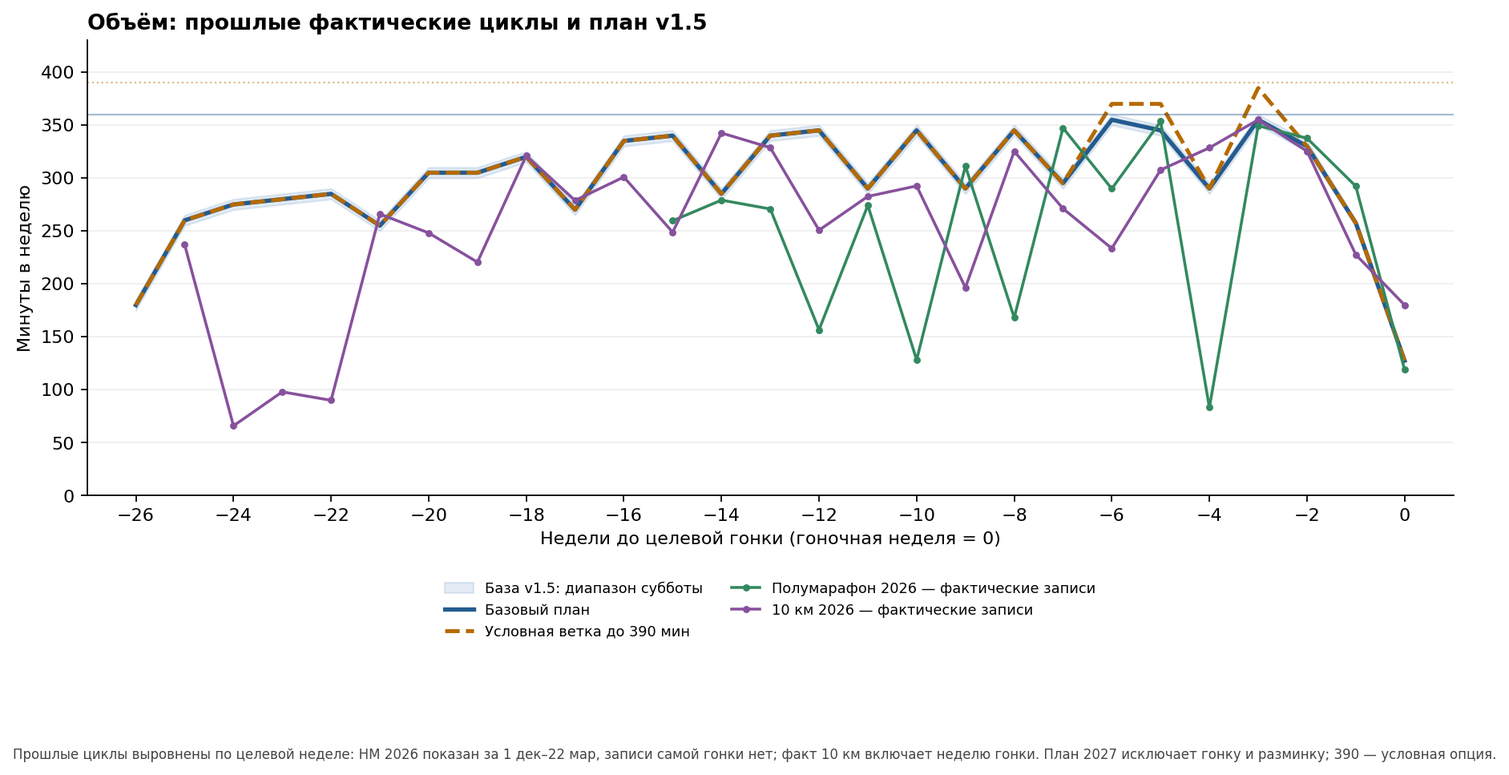
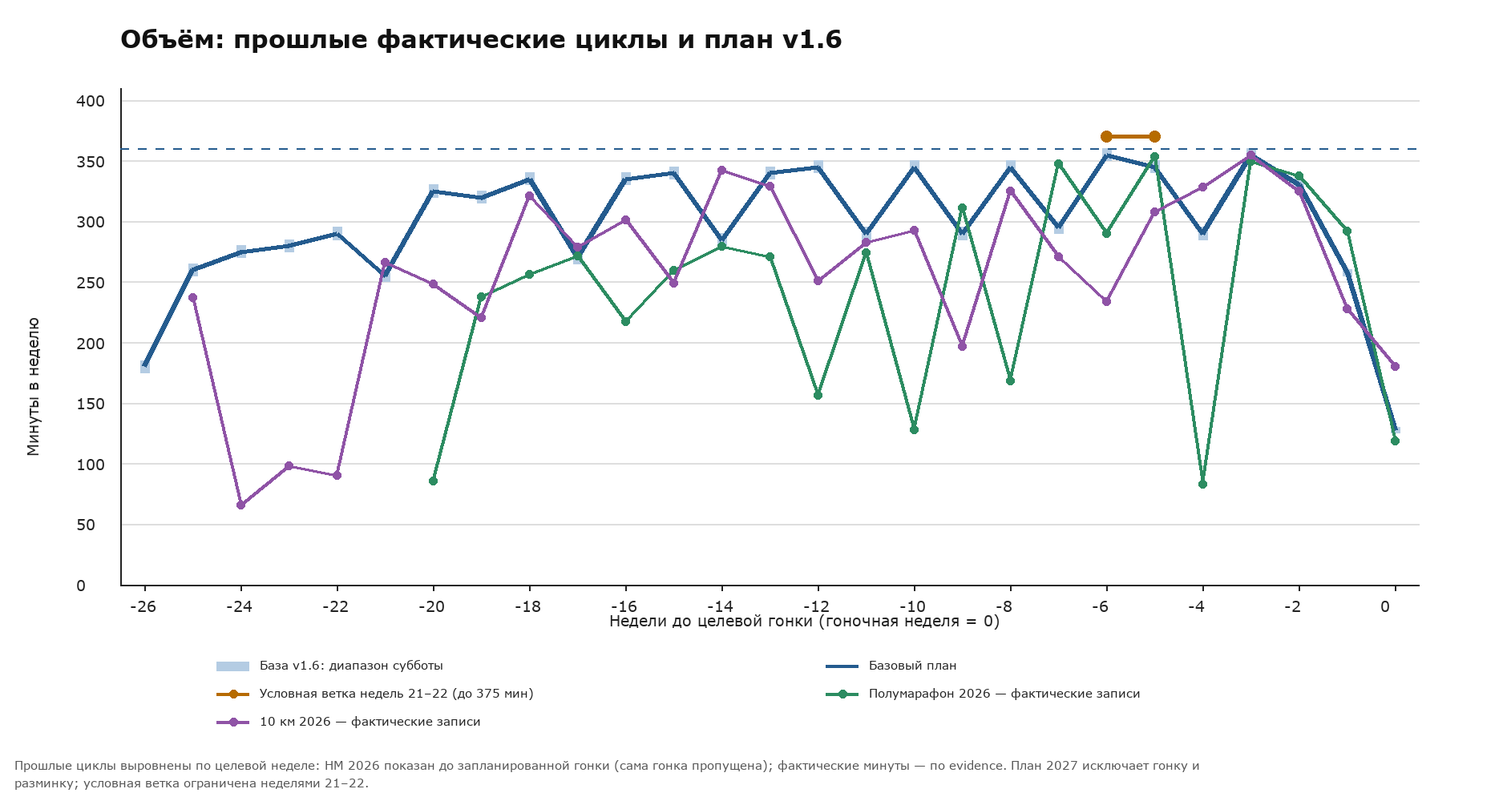
Tune early threshold and long run progression

diff --git a/half_marathon_2027/weekly_plan.md b/half_marathon_2027/weekly_plan.md
@@ -1,16 +1,18 @@
 # Календарь подготовки · 28 сентября 2026 — 4 апреля 2027
 
-Версия 1.5, обновлена 5 октября 2026. Неделя 1 сохранена как необязательное восстановление; далее действует один базовый сценарий, а дальнейший рост объёма пересматривается зимой по фактической нагрузке и восстановлению. После болезни или невосстановления календарная дата не даёт разрешения перейти к следующей нагрузке.
+Версия 1.6, обновлена 5 октября 2026. Неделя 1 сохранена как необязательное восстановление; далее действует один базовый сценарий, а дальнейший рост объёма пересматривается зимой по фактической нагрузке и восстановлению. После болезни или невосстановления календарная дата не даёт разрешения перейти к следующей нагрузке.
 
 **Все минуты — полная пробежка от дома до дома**, включая 15 минут разминки, 15 минут заминки, лёгкие промежутки и ускорения. 70 минут с 3×8 означает 70 минут всего. Заданные рабочие части не прибавляются сверху. На коротких 25-минутных занятиях разворот раньше парка или часть пути пешком.
 
 Обычный режим: **ПН — E или R по календарю; ВТ отдых; СР — главная рабочая часть; ЧТ — отдых, кроме лёгкого E перед воскресными H/контролем; ПТ — только указанная умеренная работа или E + A; СБ — лёгкий parkrun, кроме контрольных дат; ВС — лёгкая длительная или H.** Максимум две содержательные работы за неделю, это верхняя граница, а не квота. E: RPE 2–3, полные предложения; первые и последние 15 минут Z1, без минимального пульса. Временно используй 148–150 уд/мин как личный сигнал замедлиться, не как физиологический потолок или целевой темп; если тест разговора не проходит — сбавь. S: RPE 3–4, ниже T, Z2/низ Z3 по ощущению; T: RPE 6–7 под контролем; H: RPE 5–6, по ровности блоков и восстановлению. Пульсовые зоны Garmin — справочные диапазоны, их границы не являются целями занятия.
 
-**Проверка дистанции:** перед каждой пробежкой сверяй её ожидаемую дистанцию с самой длинной пробежкой за предыдущие скользящие 30 дней. Если план окажется примерно на 10% длиннее или больше — удержи предыдущую дистанцию или сократи бег, даже если время по календарю выглядит небольшим.
+**Проверка дистанции:** перед каждой пробежкой сверяй её ожидаемую дистанцию с самой длинной пробежкой за предыдущие скользящие 30 дней. Рост примерно на 10% и выше — наблюдательный сигнал риска, а не граница, ниже которой увеличение безопасно. Если плановая дистанция примерно на 10% длиннее или больше — удержи предыдущую дистанцию или сократи бег; меньшая прибавка тоже требует нормального восстановления и здравой оценки.
+
+**Версия 1.6:** T постепенно увеличивается до 3×6 минут к неделе 5; длительные недель 7–9 составляют 90/95/100 минут, при этом T остаётся на 3×6. В неделях 4–5 T и длительная растут в одной неделе — выбранный компромисс ради развития порога без дальнейшего наращивания T в неделях 7–9. Каждое увеличение длительной требует проверки реальной дистанции относительно самого длинного бега предыдущих 30 дней и восстановления: минуты сами по себе не означают безопасного роста дистанции.
 
 Обычная суббота: 15 минут легко + 5 км parkrun в разговорном усилии + дорога домой легко, обычно 60–70 минут. Контрольная: подготовительные ускорения и 5 км на результат только в контрольные даты и при нормальном состоянии. A — необязательные 4×12 секунд расслабленно, 60–90 секунд легко; включены в полное время, пропускаются при усталости или гололёде. Эти интервалы времени — оценка, а не требование ускориться или добежать лишнее. Фактическую субботнюю продолжительность включать в недельную сумму.
 
-Для повышения нагрузки все запланированные качественные части должны оставаться контролируемыми; E — по разговору, длительная — в назначенном усилии и в пределах дистанции, допустимой по самому длинному бегу за предыдущие скользящие 30 дней. Обычная тяжесть должна уходить за 48 часов; при болезни или новой/усиливающейся боли шаг не повышать. Иначе повторить предыдущую ступень или уменьшить минуты на 10–15%; пропуски не компенсировать. В базовых неделях 17, 19, 22 и 24 часть лёгких минут смещена с четверга на понедельник по указанной таблице. Условная ветка до 390 минут — только при последовательной проверке после недели 19; дата не включает её автоматически.
+Для повышения нагрузки все запланированные качественные части должны оставаться контролируемыми; E — по разговору, длительная — в назначенном усилии и в пределах дистанции, допустимой по самому длинному бегу за предыдущие скользящие 30 дней. Обычная тяжесть должна уходить за 48 часов; при болезни или новой/усиливающейся боли шаг не повышать. Иначе повторить предыдущую ступень или уменьшить минуты на 10–15%; пропуски не компенсировать. В базовых неделях 17, 19, 22 и 24 часть лёгких минут смещена с четверга на понедельник по указанной таблице. Условная ветка недель 21–22 до 375 минут возможна только после последовательной проверки после недели 19; дата не включает её автоматически.
 
 ## Обзор недель
 
@@ -20,11 +22,11 @@
 | 2 | 05.10 — 11.10 | Восстановление | 35 | 45 | 45 | Отдых | 60–70 | 70 | 255–265 |
 | 3 | 12.10 — 18.10 | Аэробная база I | 40 | 50 | Отдых | 45 | 60–70 | 75 | 270–280 |
 | 4 | 19.10 — 25.10 | Аэробная база I | 40 | 50 | Отдых | 45 | 60–70 | 80 | 275–285 |
-| 5 | 26.10 — 01.11 | Аэробная база I | 40 | 50 | Отдых | 45 | 60–70 | 85 | 280–290 |
+| 5 | 26.10 — 01.11 | Аэробная база I | 40 | 55 | Отдых | 45 | 60–70 | 85 | 285–295 |
 | 6 | 02.11 — 08.11 | Аэробная база I | 35 | 45 | Отдых | 40 | 60–70 | 70 | 250–260 |
-| 7 | 09.11 — 15.11 | Аэробная база II | 50 | 55 | Отдых | 45 | 60–70 | 90 | 300–310 |
-| 8 | 16.11 — 22.11 | Аэробная база II | 50 | 55 | Отдых | 45 | 60–70 | 90 | 300–310 |
-| 9 | 23.11 — 29.11 | Аэробная база II | 60 | 55 | Отдых | 45 | 60–70 | 95 | 315–325 |
+| 7 | 09.11 — 15.11 | Аэробная база II | 60 | 65 | Отдых | 45 | 60–70 | 90 | 320–330 |
+| 8 | 16.11 — 22.11 | Аэробная база II | 55 | 60 | Отдых | 45 | 60–70 | 95 | 315–325 |
+| 9 | 23.11 — 29.11 | Аэробная база II | 65 | 60 | Отдых | 45 | 60–70 | 100 | 330–340 |
 | 10 | 30.11 — 06.12 | Аэробная база II | 35 | 50 | 50 | Отдых | 55–65 К | 75 | 265–275 |
 | 11 | 07.12 — 13.12 | Развитие выносливости | 60 | 60 | Отдых | 50 | 60–70 | 100 | 330–340 |
 | 12 | 14.12 — 20.12 | Развитие выносливости | 60 | 60 | Отдых | 50 | 60–70 | 105 | 335–345 |
@@ -39,21 +41,20 @@
 | 21 | 15.02 — 21.02 | Специфика II | 60 | 60 | Отдых | 50 | 60–70 | 120 | 350–360 база; опция 365–375 |
 | 22 | 22.02 — 28.02 | Специфика II | 45 | 60 | 55 | Отдых | 60–70 | 120 | 340–350 база; опция 365–375 |
 | 23 | 01.03 — 07.03 | Специфика II | 40 | 55 | 60 | Отдых | 55–65 К | 75 | 285–295 |
-| 24 | 08.03 — 14.03 | Специфика II | 60 | 55 | 50 | Отдых | 60–70 | 125 | 350–360 база; опция 380–390 |
+| 24 | 08.03 — 14.03 | Специфика II | 60 | 55 | 50 | Отдых | 60–70 | 125 | 350–360 |
 | 25 | 15.03 — 21.03 | Специфика II | 45 | 65 | Отдых | 50 | 60–70 | 105 | 325–335 |
 | 26 | 22.03 — 28.03 | Тейпер | 35 | 50 | 40 | Отдых | 60–65 | 70 | 255–260 |
 | 27 | 29.03 — 04.04 | Тейпер | 25 | 40 | 25 | Отдых | 35–40 | Старт | 125–130 до гонки |
 
-К — контрольный parkrun. Недельные суммы — диапазоны с учётом фактической субботней длительности; в гоночной неделе гонка и её разминка не включены. Неделя 1 необязательна. Длительные ограничены меньшим из заданных минут и 21 км, а также дистанцией, допустимой по самому длинному бегу за скользящие предыдущие 30 дней. Базовый сценарий достигает 360 минут. Необязательная поздняя ветка до 390 минут возможна только после проверки критериев; см. условия ниже. Эти цифры — проектные ограничения плана, не физиологические потолки.
+К — контрольный parkrun. Недельные суммы — диапазоны с учётом фактической субботней длительности; в гоночной неделе гонка и её разминка не включены. Неделя 1 необязательна. Длительные ограничены меньшим из заданных минут и 21 км, а также дистанцией, допустимой по самому длинному бегу за скользящие предыдущие 30 дней. Базовый сценарий достигает 360 минут. Необязательная ветка недель 21–22 до 375 минут возможна только после проверки критериев; см. условия ниже. Эти цифры — проектные ограничения плана, не физиологические потолки.
 
 ### Условная поздняя ветка
-После недели 19 можно рассмотреть только лёгкие минуты, без добавления повторов T/H или роста интенсивности. Условия входа: не менее четырёх фактически выполненных рабочих недель по 330–360 минут за предыдущие 6–8 календарных недель (контрольные и разгрузочные недели не обязаны достигать этого объёма); все назначенные рабочие части контролируемы, E проходит тест полных предложений, обычное восстановление наступает в течение 48 часов; нет болезни и новой/усиливающейся боли. Неделя 21 получает верхний вариант только после этой проверки; неделя 22 — только если неделя 21 стабильна; неделя 24 — только если стабильна неделя 22 и нормально пройдены контроль и восстановление недели 23. Если условия не соблюдены, остаётся базовый вариант. Ни календарная дата, ни пропущенные занятия сами по себе эту ветку не активируют.
+После недели 19 можно рассмотреть только лёгкие минуты в неделях 21–22, без добавления повторов T/H или роста интенсивности. Условия входа: не менее четырёх фактически выполненных рабочих недель по 330–360 минут за предыдущие 6–8 календарных недель (контрольные и разгрузочные недели не обязаны достигать этого объёма); все назначенные рабочие части контролируемы, E проходит тест полных предложений, обычное восстановление наступает в течение 48 часов; нет болезни и новой/усиливающейся боли. Неделя 21 получает верхний вариант только после этой проверки; неделя 22 — только если неделя 21 стабильна. Максимум ветки — 375 минут. Если условия не соблюдены, остаётся базовый вариант. Ни календарная дата, ни пропущенные занятия сами по себе эту ветку не активируют.
 
 | Неделя | Базовый план | Необязательная ветка при выполнении условий |
 |---:|---|---|
 | 21 | ПН 60, СР 60, ПТ 50, ВС 120; 350–360 мин | СР 65, ПТ 60; 365–375 мин |
 | 22 | ПН 45, СР 60, ЧТ 55, ВС 120; 340–350 мин | ПН 50, СР 65, ЧТ 70; 365–375 мин |
-| 24 | ПН 60, СР 55, ЧТ 50, ВС 125; 350–360 мин | СР 65, ЧТ 70; 380–390 мин |
 
 ### Специфика H
 
@@ -91,7 +92,7 @@
 ### Неделя 4 · 19.10.2026 — 25.10.2026 · Аэробная база I
 
 **Понедельник, 19.10, 40 мин:** лёгкий E, RPE 2–3, полные предложения; первые и последние 15 мин Z1. Пульс не цель и не нужно достигать нижней границы Z2; 148–150 уд/мин — только временный личный сигнал замедлиться. При усталости сократить или сделать R/отдых, без компенсации.
-**Среда, 21.10, 50 мин всего:** T: 2×5 мин / 2 мин легко. RPE 6–7, контролируемо; не гонись за пульсом. Время включает лёгкую разминку, короткую активацию перед T и заминку; все восстановления внутри лимита.
+**Среда, 21.10, 50 мин всего:** T: 2×6 мин / 2 мин легко. RPE 6–7, контролируемо; не гонись за пульсом. Время включает лёгкую разминку, короткую активацию перед T и заминку; все восстановления внутри лимита.
 **Четверг, 22.10:** отдых.
 **Пятница, 23.10, 45 мин всего:** E + необязательные 4×12 с A, между ускорениями 60–90 с легко. A расслабленные, входят в полное время, пропусти при усталости/гололёде; это не вторая качественная работа.
 **Суббота, 24.10, обычно 60–70 мин:** 5 км parkrun легко по разговорному усилию, дорога туда и обратно; без соревновательного финиша.
@@ -100,7 +101,7 @@
 ### Неделя 5 · 26.10.2026 — 01.11.2026 · Аэробная база I
 
 **Понедельник, 26.10, 40 мин:** лёгкий E, RPE 2–3, полные предложения; первые и последние 15 мин Z1. Пульс не цель и не нужно достигать нижней границы Z2; 148–150 уд/мин — только временный личный сигнал замедлиться. При усталости сократить или сделать R/отдых, без компенсации.
-**Среда, 28.10, 50 мин всего:** T: 2×5 мин / 2 мин легко. RPE 6–7, контролируемо; не гонись за пульсом. Время включает лёгкую разминку, короткую активацию перед T и заминку; все восстановления внутри лимита.
+**Среда, 28.10, 55 мин всего:** T: 3×6 мин / 2 мин легко. RPE 6–7, контролируемо; не гонись за пульсом. Время включает лёгкую разминку, короткую активацию перед T и заминку; все восстановления внутри лимита.
 **Четверг, 29.10:** отдых.
 **Пятница, 30.10, 45 мин всего:** E + необязательные 4×12 с A, между ускорениями 60–90 с легко. A расслабленные, входят в полное время, пропусти при усталости/гололёде; это не вторая качественная работа.
 **Суббота, 31.10, обычно 60–70 мин:** 5 км parkrun легко по разговорному усилию, дорога туда и обратно; без соревновательного финиша.
@@ -117,35 +118,35 @@
 Разгрузка: сохраняй короткую среду, пятница E, длительная 70 минут.
 ### Неделя 7 · 09.11.2026 — 15.11.2026 · Аэробная база II
 
-**Понедельник, 09.11, 50 мин:** лёгкий E, RPE 2–3, полные предложения; первые и последние 15 мин Z1. Пульс не цель и не нужно достигать нижней границы Z2; 148–150 уд/мин — только временный личный сигнал замедлиться. При усталости сократить или сделать R/отдых, без компенсации.
-**Среда, 11.11, 55 мин всего:** T: 2×5 мин / 2 мин легко. RPE 6–7, контролируемо; не гонись за пульсом. Время включает лёгкую разминку, короткую активацию перед T и заминку; все восстановления внутри лимита.
+**Понедельник, 09.11, 60 мин:** лёгкий E, RPE 2–3, полные предложения; первые и последние 15 мин Z1. Пульс не цель и не нужно достигать нижней границы Z2; 148–150 уд/мин — только временный личный сигнал замедлиться. При усталости сократить или сделать R/отдых, без компенсации.
+**Среда, 11.11, 65 мин всего:** T: 3×6 мин / 2 мин легко. RPE 6–7, контролируемо; не гонись за пульсом. Время включает лёгкую разминку, короткую активацию перед T и заминку; все восстановления внутри лимита.
 **Четверг, 12.11:** отдых.
 **Пятница, 13.11, 45 мин всего:** E + необязательные 4×12 с A, между ускорениями 60–90 с легко. A расслабленные, входят в полное время, пропусти при усталости/гололёде; это не вторая качественная работа.
 **Суббота, 14.11, обычно 60–70 мин:** 5 км parkrun легко по разговорному усилию, дорога туда и обратно; без соревновательного финиша.
 **Воскресенье, 15.11, 90 мин всего:** лёгкая длительная E по разговору/RPE 2–3, первые и последние 15 мин Z1. Перед длительной сверяй расстояние с правилом проверки выше; оно важнее времени в плане.
-После разгрузки растёт длительная до 90 минут; пятница лёгкая.
+После разгрузки длительная достигает 90 минут; T удерживается на 3×6. Понедельник увеличен на 10 минут, а среда — на 10 минут: с учётом выросшей T это добавляет около 12 лёгких минут за неделю. Увеличение зависит от проверки фактической дистанции и восстановления.
 ### Неделя 8 · 16.11.2026 — 22.11.2026 · Аэробная база II
 
-**Понедельник, 16.11, 50 мин:** лёгкий E, RPE 2–3, полные предложения; первые и последние 15 мин Z1. Пульс не цель и не нужно достигать нижней границы Z2; 148–150 уд/мин — только временный личный сигнал замедлиться. При усталости сократить или сделать R/отдых, без компенсации.
-**Среда, 18.11, 55 мин всего:** T: 3×5 мин / 2 мин легко. RPE 6–7, контролируемо; не гонись за пульсом. Время включает лёгкую разминку, короткую активацию перед T и заминку; все восстановления внутри лимита.
+**Понедельник, 16.11, 55 мин:** лёгкий E, RPE 2–3, полные предложения; первые и последние 15 мин Z1. Пульс не цель и не нужно достигать нижней границы Z2; 148–150 уд/мин — только временный личный сигнал замедлиться. При усталости сократить или сделать R/отдых, без компенсации.
+**Среда, 18.11, 60 мин всего:** T: 3×6 мин / 2 мин легко. RPE 6–7, контролируемо; не гонись за пульсом. Время включает лёгкую разминку, короткую активацию перед T и заминку; все восстановления внутри лимита.
 **Четверг, 19.11:** отдых.
 **Пятница, 20.11, 45 мин всего:** E + необязательные 4×12 с A, между ускорениями 60–90 с легко. A расслабленные, входят в полное время, пропусти при усталости/гололёде; это не вторая качественная работа.
 **Суббота, 21.11, обычно 60–70 мин:** 5 км parkrun легко по разговорному усилию, дорога туда и обратно; без соревновательного финиша.
-**Воскресенье, 22.11, 90 мин всего:** лёгкая длительная E по разговору/RPE 2–3, первые и последние 15 мин Z1. Перед длительной сверяй расстояние с правилом проверки выше; оно важнее времени в плане.
-T увеличивается до 3×5, длительная остаётся 90 минут.
+**Воскресенье, 22.11, 95 мин всего:** лёгкая длительная E по разговору/RPE 2–3, первые и последние 15 мин Z1. Перед длительной сверяй расстояние с правилом проверки выше; оно важнее времени в плане.
+T удерживается на 3×6; длительная растёт до 95 минут только при допустимой дистанции за предыдущие 30 дней и нормальном восстановлении. Вместе с пятиминутным увеличением среды это добавляет 15 минут к неделе v1.5; с учётом трёх дополнительных T минут, около 12 минут приходится на лёгкое время.
 ### Неделя 9 · 23.11.2026 — 29.11.2026 · Аэробная база II
 
-**Понедельник, 23.11, 60 мин:** лёгкий E, RPE 2–3, полные предложения; первые и последние 15 мин Z1. Пульс не цель и не нужно достигать нижней границы Z2; 148–150 уд/мин — только временный личный сигнал замедлиться. При усталости сократить или сделать R/отдых, без компенсации.
-**Среда, 25.11, 55 мин всего:** T: 3×5 мин / 2 мин легко. RPE 6–7, контролируемо; не гонись за пульсом. Время включает лёгкую разминку, короткую активацию перед T и заминку; все восстановления внутри лимита.
+**Понедельник, 23.11, 65 мин:** лёгкий E, RPE 2–3, полные предложения; первые и последние 15 мин Z1. Пульс не цель и не нужно достигать нижней границы Z2; 148–150 уд/мин — только временный личный сигнал замедлиться. При усталости сократить или сделать R/отдых, без компенсации.
+**Среда, 25.11, 60 мин всего:** T: 3×6 мин / 2 мин легко. RPE 6–7, контролируемо; не гонись за пульсом. Время включает лёгкую разминку, короткую активацию перед T и заминку; все восстановления внутри лимита.
 **Четверг, 26.11:** отдых.
 **Пятница, 27.11, 45 мин всего:** E + необязательные 4×12 с A, между ускорениями 60–90 с легко. A расслабленные, входят в полное время, пропусти при усталости/гололёде; это не вторая качественная работа.
 **Суббота, 28.11, обычно 60–70 мин:** 5 км parkrun легко по разговорному усилию, дорога туда и обратно; без соревновательного финиша.
-**Воскресенье, 29.11, 95 мин всего:** лёгкая длительная E по разговору/RPE 2–3, первые и последние 15 мин Z1. Перед длительной сверяй расстояние с правилом проверки выше; оно важнее времени в плане.
-Длительная 95 минут; среда T без дополнительной быстрой работы.
+**Воскресенье, 29.11, 100 мин всего:** лёгкая длительная E по разговору/RPE 2–3, первые и последние 15 мин Z1. Перед длительной сверяй расстояние с правилом проверки выше; оно важнее времени в плане.
+T удерживается на 3×6, длительная растёт до 100 минут только при допустимой фактической дистанции и нормальном восстановлении; понедельник добавляет 5 лёгких минут.
 ### Неделя 10 · 30.11.2026 — 06.12.2026 · Аэробная база II
 
 **Понедельник, 30.11, 35 мин R:** очень легко, RPE 1–2, свободный разговор; при усталости сократить/отдохнуть, ничего не компенсировать.
-**Среда, 02.12, 50 мин всего:** T: 2×6 мин Z4 / 2 мин легко. RPE 6–7, контролируемо; не гонись за пульсом. Время включает лёгкую разминку, короткую активацию перед T и заминку; все восстановления внутри лимита.
+**Среда, 02.12, 50 мин всего:** T: 2×6 мин / 2 мин легко. RPE 6–7, контролируемо; не гонись за пульсом. Время включает лёгкую разминку, короткую активацию перед T и заминку; все восстановления внутри лимита.
 **Четверг, 03.12, 50 мин:** лёгкий E, разговорное усилие; первые и последние 15 мин Z1.
 **Пятница, 04.12:** отдых.
 **Суббота, 05.12, 55–65 мин:** контрольный parkrun 5 км только при нормальном самочувствии; при гололёде или усталости — легко или отменить.
@@ -218,7 +219,7 @@ T увеличивается до 3×5, длительная остаётся 90
 ### Неделя 18 · 25.01.2027 — 31.01.2027 · Специфика I
 
 **Понедельник, 25.01, 40 мин R:** очень легко, RPE 1–2, свободный разговор; при усталости сократить/отдохнуть, ничего не компенсировать.
-**Среда, 27.01, 55 мин всего:** T: 2×6 мин Z4 / 2 мин легко. RPE 6–7, контролируемо; не гонись за пульсом. Время включает лёгкую разминку, короткую активацию перед T и заминку; все восстановления внутри лимита.
+**Среда, 27.01, 55 мин всего:** T: 2×6 мин / 2 мин легко. RPE 6–7, контролируемо; не гонись за пульсом. Время включает лёгкую разминку, короткую активацию перед T и заминку; все восстановления внутри лимита.
 **Четверг, 28.01, 60 мин:** лёгкий E, разговорное усилие; первые и последние 15 мин Z1.
 **Пятница, 29.01:** отдых.
 **Суббота, 30.01, 55–65 мин:** контрольный parkrun 5 км только при нормальном самочувствии; при гололёде или усталости — легко или отменить.
@@ -264,7 +265,7 @@ T увеличивается до 3×5, длительная остаётся 90
 ### Неделя 23 · 01.03.2027 — 07.03.2027 · Специфика II
 
 **Понедельник, 01.03, 40 мин R:** очень легко, RPE 1–2, свободный разговор; при усталости сократить/отдохнуть, ничего не компенсировать.
-**Среда, 03.03, 55 мин всего:** T: 2×6 мин Z4 / 2 мин легко. RPE 6–7, контролируемо; не гонись за пульсом. Время включает лёгкую разминку, короткую активацию перед T и заминку; все восстановления внутри лимита.
+**Среда, 03.03, 55 мин всего:** T: 2×6 мин / 2 мин легко. RPE 6–7, контролируемо; не гонись за пульсом. Время включает лёгкую разминку, короткую активацию перед T и заминку; все восстановления внутри лимита.
 **Четверг, 04.03, 60 мин:** лёгкий E, разговорное усилие; первые и последние 15 мин Z1.
 **Пятница, 05.03:** отдых.
 **Суббота, 06.03, 55–65 мин:** контрольный parkrun 5 км только при нормальном самочувствии; при гололёде или усталости — легко или отменить.

diff --git a/half_marathon_2027/research.md b/half_marathon_2027/research.md
@@ -1,8 +1,8 @@
 # Научное основание и границы выводов
 
-Подборка проверена 29 сентября 2026; версия плана 1.5 обновлена 5 октября 2026. Использованы страницы первичных исследований и метаанализов, а также позиции профессиональных авторских групп. Это основание для принципов программы; ни одна работа не проверяла весь наш 27-недельный календарь для спортсмена с твоей историей. В Garmin длительные 6, 13 и 20 сентября составили 80,0 мин / 12,7 км, 80,7 мин / 13,0 км и 70,1 мин / 11,4 км; в плане 10 км стояли 80, 80 и 70 минут. Эти записи не подтверждают длительные 90 и 85 минут.
+Подборка проверена 29 сентября 2026; версия плана 1.6 обновлена 5 октября 2026. Использованы страницы первичных исследований и метаанализов, а также позиции профессиональных авторских групп. Это основание для принципов программы; ни одна работа не проверяла весь наш 27-недельный календарь для спортсмена с твоей историей. В Garmin длительные 6, 13 и 20 сентября составили 80,0 мин / 12,7 км, 80,7 мин / 13,0 км и 70,1 мин / 11,4 км; в плане 10 км стояли 80, 80 и 70 минут. Эти записи не подтверждают длительные 90 и 85 минут.
 
-Версия 1.3 уточнила привязку к обновлённым зонам RUNNING 29 сентября; версия 1.4 вернула лёгкий объём по понедельникам и перераспределила часть четверговых минут. Версия 1.5 снижает базовый недельный пик до 360 минут по осторожному плановому выбору, не по физиологическому порогу, и задаёт условную позднюю ветку до 390 минут только после проверки фактической переносимости. Зоны Garmin приводятся как справка, а E/S/T/H назначаются преимущественно по тесту разговора и RPE.
+Версия 1.3 уточнила привязку к обновлённым зонам RUNNING 29 сентября; версия 1.4 вернула лёгкий объём по понедельникам и перераспределила часть четверговых минут. Версия 1.5 снизила базовый недельный пик до 360 минут как осторожный плановый выбор. Версия 1.6 повышает T до 18 рабочих минут к неделе 5, задаёт длительные 90/95/100 минут в неделях 7–9 с обязательной проверкой фактической дистанции относительно самого длинного бега за предыдущие 30 дней и восстановления, а условную ветку ограничивает неделями 21–22 до 375 минут. Зоны Garmin приводятся как справка, а E/S/T/H назначаются преимущественно по тесту разговора и RPE.
 
 ## Распределение интенсивности
 
@@ -24,9 +24,9 @@
 
 Сравнивались четыре последовательности распределения интенсивности. Улучшения были в каждой, наибольшие в этой выборке — при переходе от пирамидального к поляризованному распределению. Проверяли, в частности, результат 5 км. Исследование показывает, что порядок акцентов имеет значение для изучения, но не доказывает оптимальность нашей полумарафонской последовательности. Мы не копируем эту схему буквально: к концу добавляем длительные блоки H, соответствующие целевой дистанции.
 
-**Что является нашим решением:** восемь недель базы, шесть развития выносливости, девять специфики; разгрузки; максимум две содержательные работы как верхняя граница, а не квота. Последние перед 10 км длительные в Garmin — 80,0, 80,7 и 70,1 минуты; план задавал 80, 80 и 70. Они не подтверждают 90/85 минут или резкий возврат к 85–100. Поэтому первые ступени — 75–80–85 минут, после разгрузки 90–90–95. Прежние 2×4 км (~45,5 мин) совпадают с H лишь по длительности и не подтверждают одинаковую интенсивность или переносимость; прогноз около 5:18/км не становится назначением H. H уточняется по RPE, стабильности блоков и восстановлению.
+**Что является нашим решением:** восемь недель базы, шесть развития выносливости, девять специфики; разгрузки; максимум две содержательные работы как верхняя граница, а не квота. Последние перед 10 км длительные в Garmin — 80,0, 80,7 и 70,1 минуты; план задавал 80, 80 и 70. Они не подтверждают 90/85 минут или резкий возврат к 85–100. Поэтому первые ступени — 75–80–85 минут, после разгрузки — 90–95–100 только при проверке фактической дистанции относительно самого длинного бега предыдущих 30 дней и нормальном восстановлении; минутная цель сама по себе не разрешает скачок дистанции. T в неделях 3–5 постепенно достигает 18 рабочих минут, а затем удерживается. Прежние 2×4 км (~45,5 мин) совпадают с H лишь по длительности и не подтверждают одинаковую интенсивность или переносимость; прогноз около 5:18/км не становится назначением H. H уточняется по RPE, стабильности блоков и восстановлению.
 
-Фактические недельные максимумы по записанным тренировкам: 355 минут в цикле 10 км; 353,45 минуты и 53,92 км в цикле полумарафона 2026 (9–15 февраля), с соседними неделями 347,23 и 349,34 минуты. Плановые 56,6 км в цикле 2026 — запланированное расстояние, не фактические минуты. Поэтому базовый пик 360 минут — консервативное проектное решение около прежних фактических максимумов, не доказанная граница возможностей. Опциональная ветка до 390 минут требует четырёх реальных рабочих недель объёмом 330–360 минут за 6–8 календарных недель, контролируемых работ, лёгкого теста разговора, нормального восстановления до 48 часов и отсутствия болезни/новой боли. Разгрузки и контрольные недели не должны набирать этот объём. Ветки недель 21, 22, 24 добавляют только лёгкое время и активируются последовательно по фактическому восстановлению; никаких дополнительных T/H повторов они не содержат.
+Фактические недельные максимумы по записанным тренировкам: 355 минут в цикле 10 км; 353,45 минуты и 53,92 км в цикле полумарафона 2026 (9–15 февраля), с соседними неделями 347,23 и 349,34 минуты. Плановые 56,6 км в цикле 2026 — запланированное расстояние, не фактические минуты. Поэтому базовый пик 360 минут — консервативное проектное решение около прежних фактических максимумов, не доказанная граница возможностей. Опциональная ветка до 375 минут требует четырёх реальных рабочих недель объёмом 330–360 минут за 6–8 календарных недель, контролируемых работ, лёгкого теста разговора, нормального восстановления до 48 часов и отсутствия болезни/новой боли. Разгрузки и контрольные недели не должны набирать этот объём. Ветки недель 21 и 22 добавляют только лёгкое время и активируются последовательно по фактическому восстановлению; никаких дополнительных T/H повторов они не содержат.
 
 ## Снижение объёма перед стартом
 
@@ -42,7 +42,7 @@
 
 **Frandsen et al., 2025. How much running is too much? Identifying high-risk running sessions in a 5200-person cohort study.** [PubMed](https://pubmed.ncbi.nlm.nih.gov/40623829/) · DOI 10.1136/bjsports-2024-109380.
 
-Наблюдательная когорта 5205 бегунов. Повышенная частота травм от перегрузки была связана со скачками дистанции отдельной пробежки относительно самой длинной за предшествующие 30 дней. Аналогичной связи с простым отношением объёма одной недели к предыдущей не нашли. Это не доказывает причинность или безопасность прибавки менее 10%. Поэтому смотрим и на недавнюю длительную, и на восстановление, а не применяем универсальное недельное правило процентов. Этот результат поддерживает проверку каждой отдельной пробежки и осторожность после пауз, но не устанавливает жёсткий предел недельного километража. Недельная сумма используется вместе с дистанцией отдельных пробежек и реакцией восстановления; условная ветка объёма v1.5 — отдельный плановый выбор, не вывод исследования.
+Наблюдательная когорта 5205 бегунов. Повышенная частота травм от перегрузки была связана со скачками дистанции отдельной пробежки относительно самой длинной за предшествующие 30 дней. Аналогичной связи с простым отношением объёма одной недели к предыдущей не нашли. Это не доказывает причинность или безопасность прибавки менее 10%. Поэтому смотрим и на недавнюю длительную, и на восстановление, а не применяем универсальное недельное правило процентов. Этот результат поддерживает проверку каждой отдельной пробежки и осторожность после пауз, но не устанавливает жёсткий предел недельного километража. Недельная сумма используется вместе с дистанцией отдельных пробежек и реакцией восстановления; условная ветка объёма v1.6 — отдельный плановый выбор, не вывод исследования.
 
 ## Разминка и питание
 

diff --git a/half_marathon_2027/README.md b/half_marathon_2027/README.md
@@ -1,6 +1,6 @@
 # Полумарафон 4 апреля 2027
 
-Программа версии 1.5 от 5 октября 2026. Базовый план достигает 360 минут в неделю; после недели 19 допускается условная ветка до 390 минут при подтверждённой переносимости. 360 минут выбраны по записанным максимумам предыдущих циклов (355 минут в 10-км цикле и 353,45 минуты в полумарафонском цикле 2026); это плановые уровни, а не физиологические потолки. Условная ветка может дойти до 390 минут при выполнении критериев. Пять беговых дней, лёгкий parkrun в субботу, длительная в воскресенье; всё время включает разминку, заминку и восстановления. ЧСС — справочный ориентир, E/S/T/H назначены по RPE и разговорному тесту.
+Программа версии 1.6 от 5 октября 2026. После пересмотра пороговая работа достигает 18 минут к неделе 5, длительные недель 7–9 растут до 90/95/100 минут с обязательной проверкой дистанции и восстановления, а поздняя условная ветка ограничена неделями 21–22 и 375 минутами. Базовый план достигает 360 минут в неделю; это плановый уровень с учётом записанных максимумов прошлых циклов (355 минут в цикле 10 км и 353,45 минуты в полумарафонском цикле 2026), а не физиологический потолок. Пять беговых дней, лёгкий parkrun в субботу, длительная в воскресенье; всё время включает разминку, заминку и восстановления. ЧСС — справочный ориентир, E/S/T/H назначены по RPE и разговорному тесту.
 
 - [Программа и циклы](program.md) — логика, зоны, правила изменения нагрузки и контрольные точки.
 - [Календарь на 27 недель](weekly_plan.md) — минуты по дням и основные задания.
